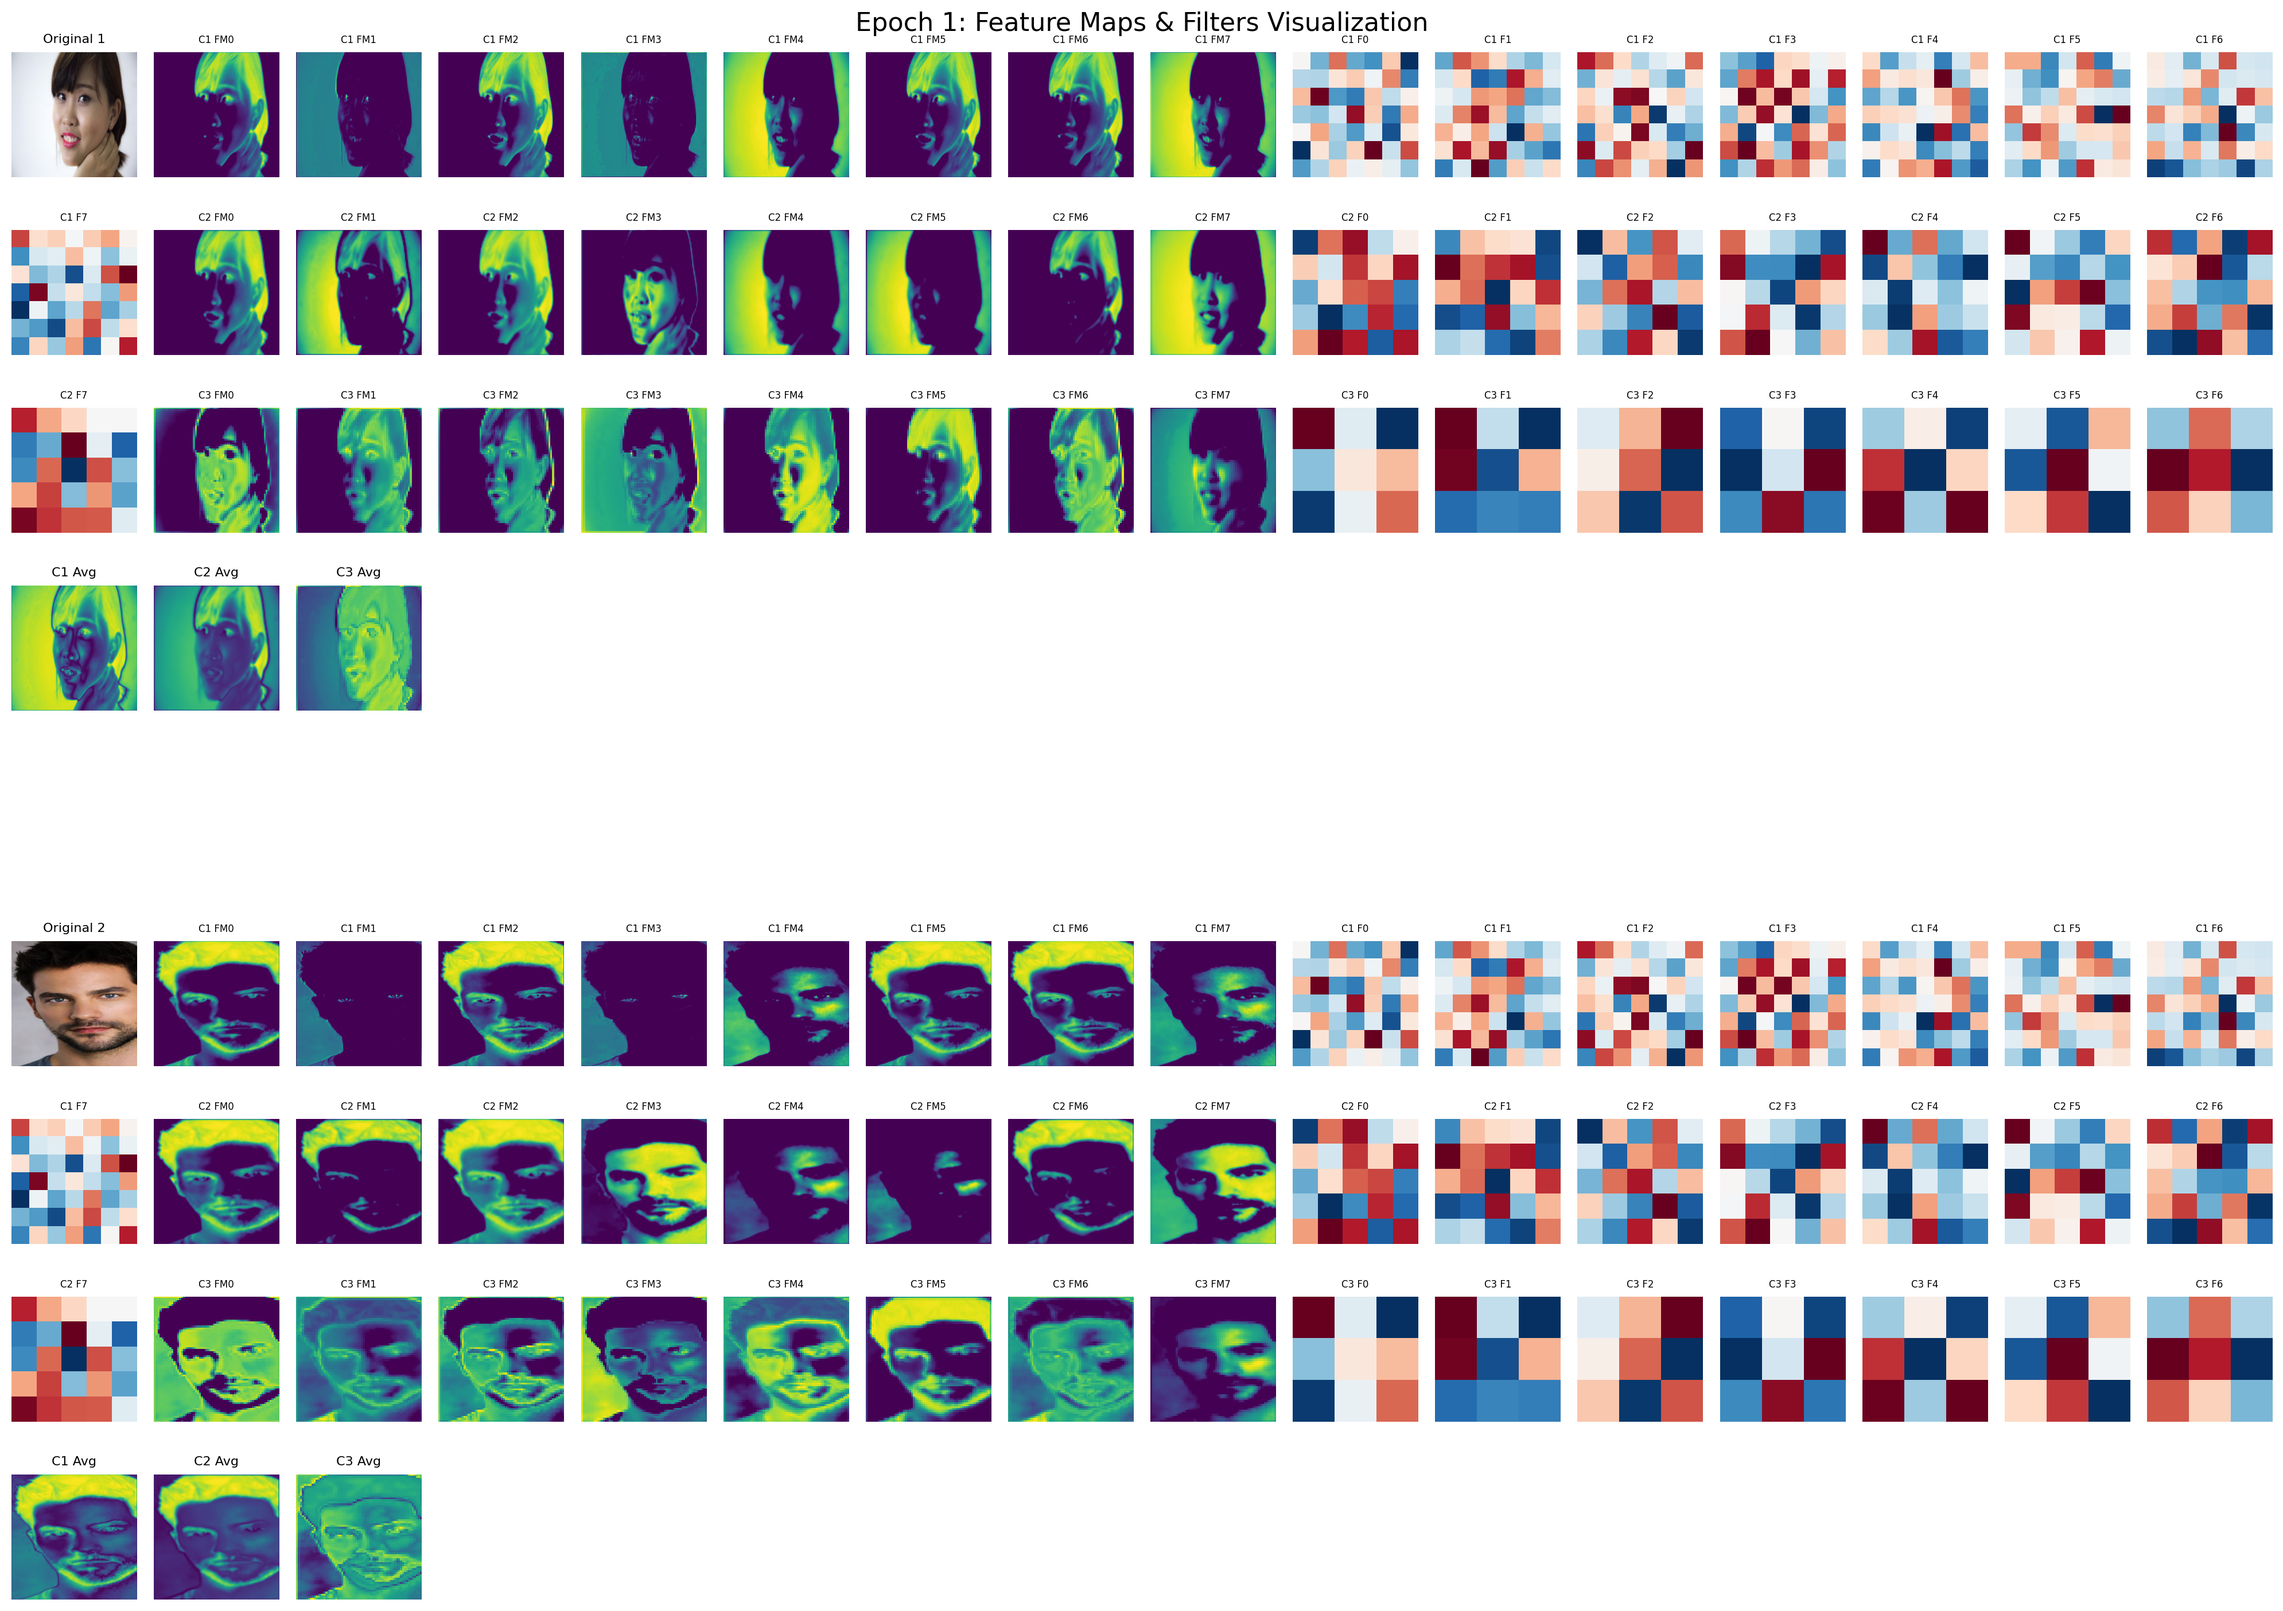
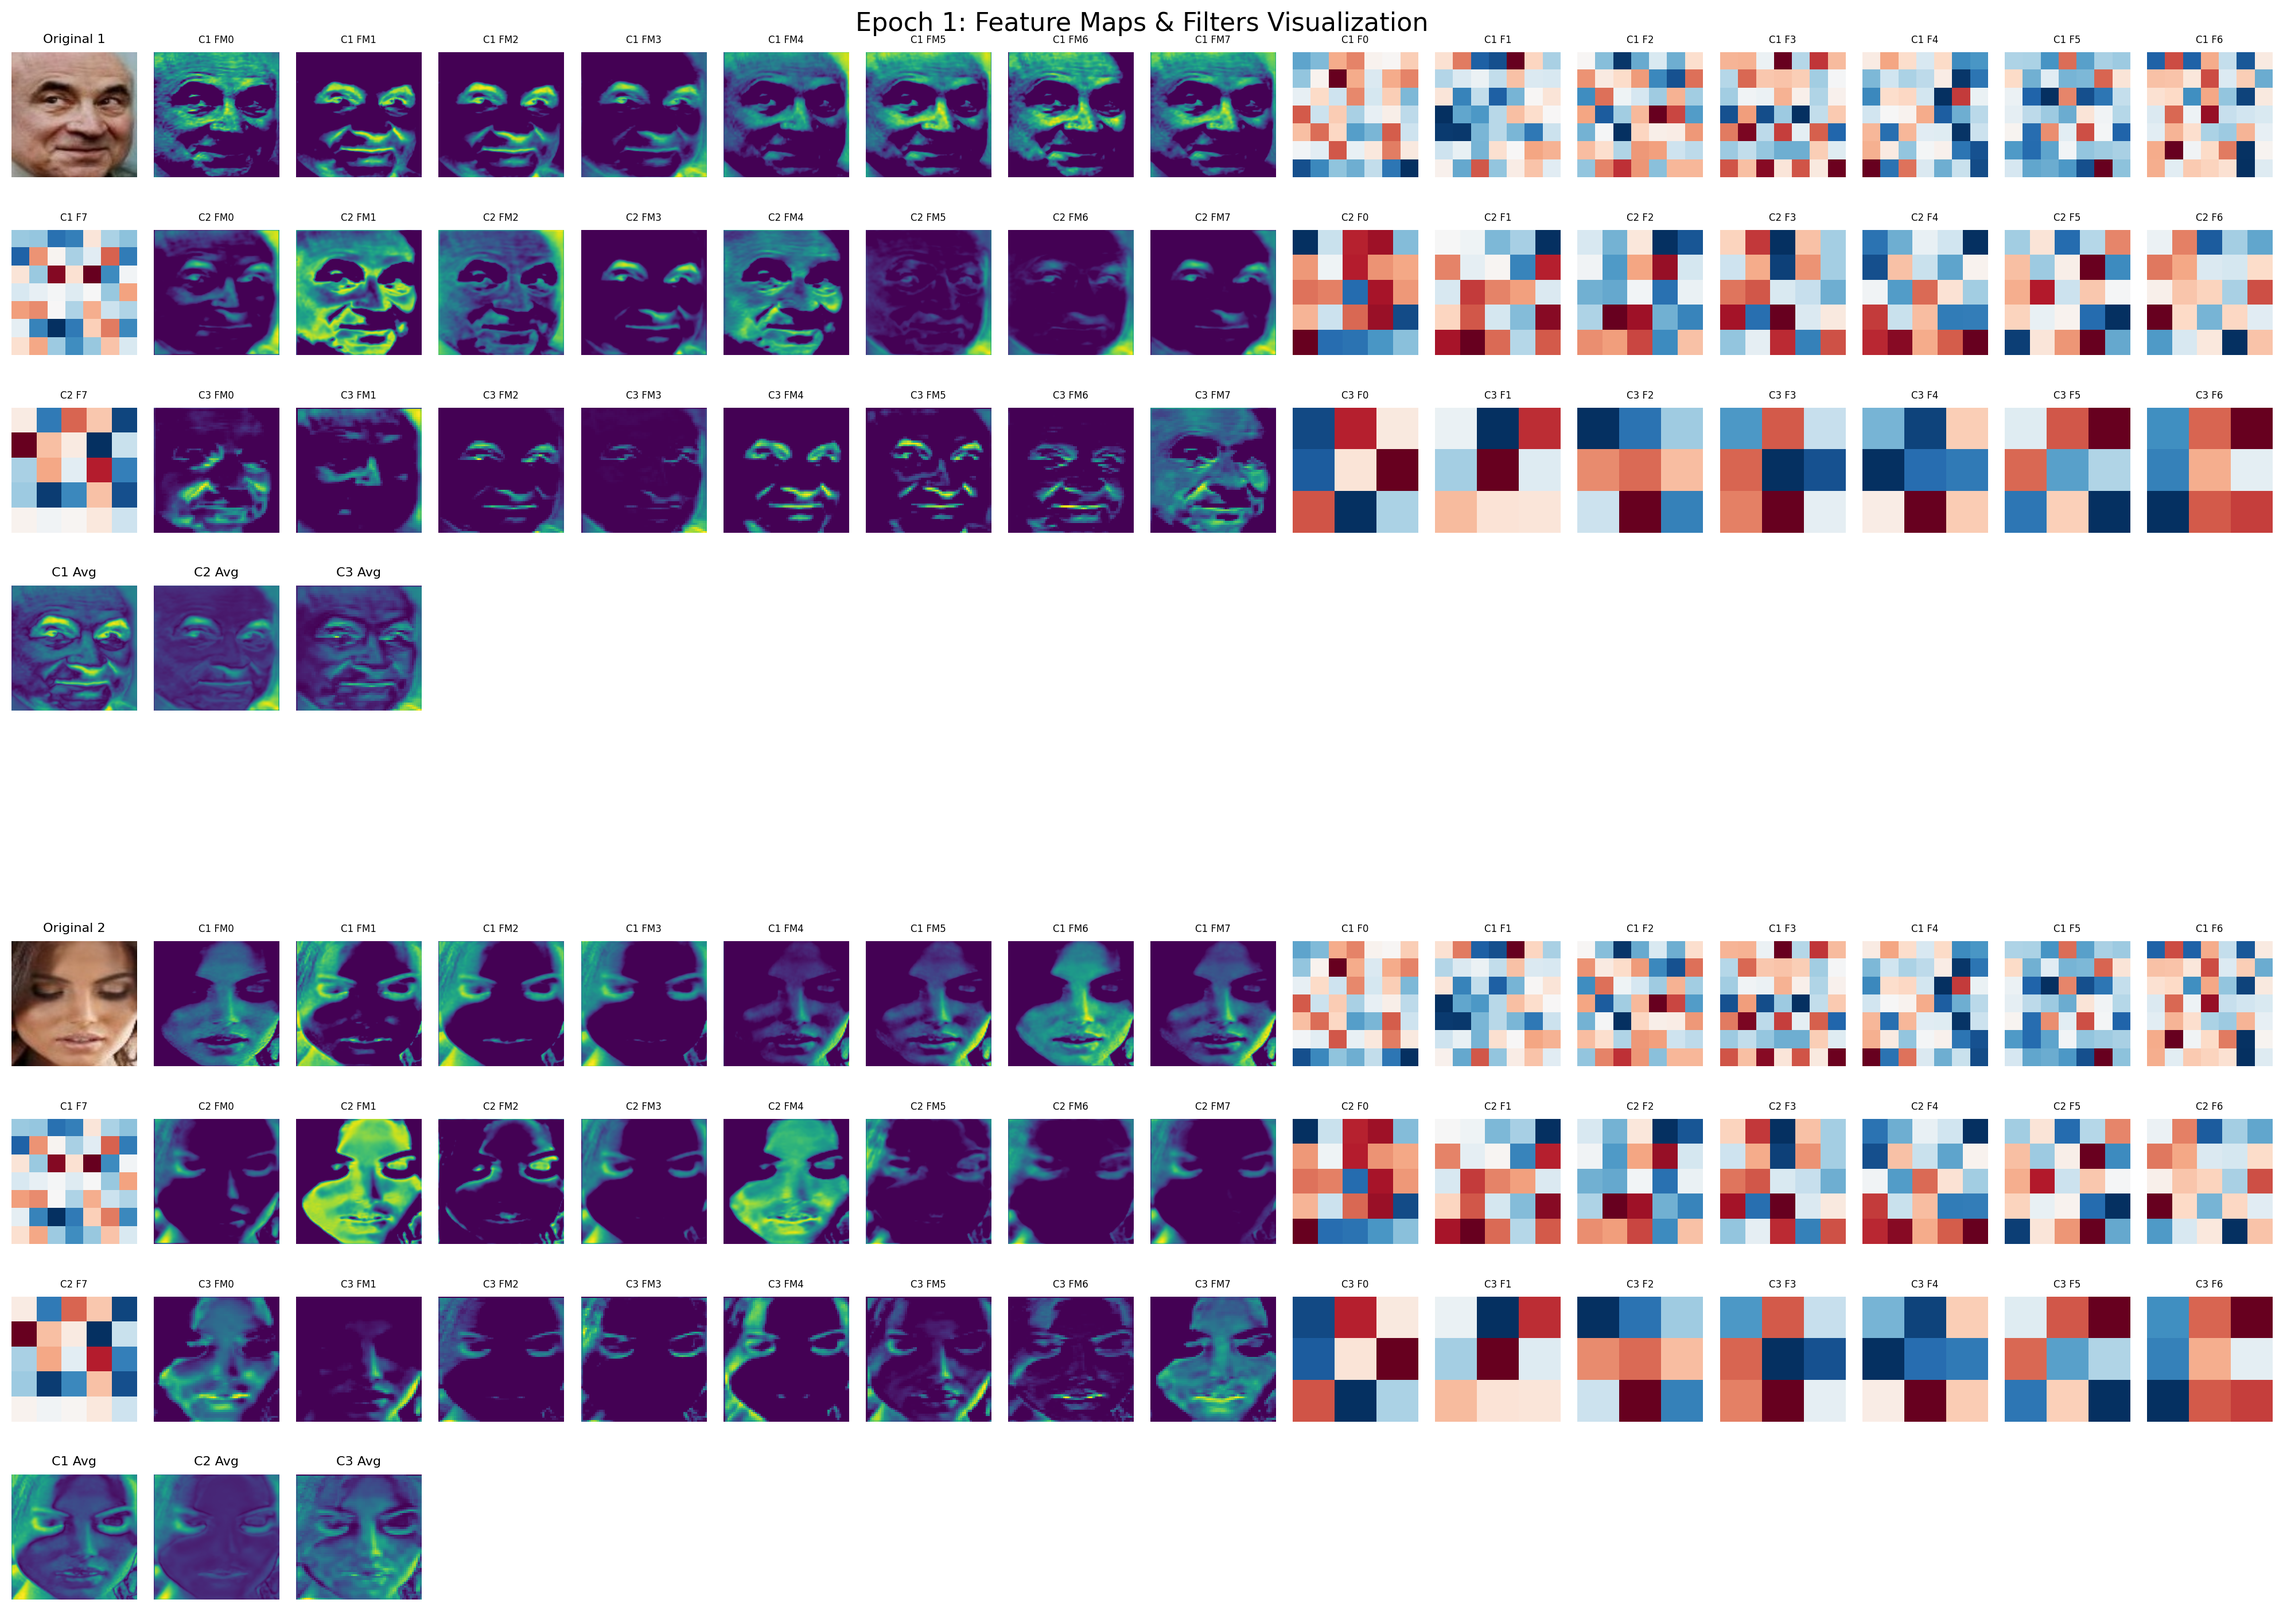
Major Change
Changing the training data to a larger amd more close up face iamge, improving the results.

diff --git a/main_visualize.py b/main_visualize.py
@@ -17,15 +17,15 @@ transforms = transforms.Compose([
     transforms.Normalize((0.5, 0.5, 0.5), (0.5, 0.5, 0.5))
 ])
 
-dataset = datasets.ImageFolder(
-    root='datasets/ashwingupta3012/male-and-female-faces-dataset/versions/1/Male and Female face dataset',
+train_dataset = datasets.ImageFolder(
+    root='datasets/cashutosh/gender-classification-dataset/versions/1/Training',
     transform=transforms
 )
 
-train_size = int(0.8 * len(dataset))
-val_size = len(dataset) - train_size
-
-train_dataset, val_dataset = random_split(dataset, [train_size, val_size])
+val_dataset = datasets.ImageFolder(
+    root='datasets/cashutosh/gender-classification-dataset/versions/1/Validation',
+    transform=transforms
+)
 
 train_loader = DataLoader(train_dataset, batch_size=32, shuffle=True)
 val_loader = DataLoader(val_dataset, batch_size=32, shuffle=False)
@@ -254,3 +254,5 @@ trainer = pl.Trainer(
     devices='auto'
 )
 trainer.fit(model, train_loader, val_loader)
+
+torch.save(model.state_dict(), 'model.pth')

diff --git a/main.py b/main.py
@@ -17,15 +17,15 @@ transforms = transforms.Compose([
     transforms.Normalize((0.5, 0.5, 0.5), (0.5, 0.5, 0.5))
 ])
 
-dataset = datasets.ImageFolder(
-    root='datasets/ashwingupta3012/male-and-female-faces-dataset/versions/1/Male and Female face dataset',
+train_dataset = datasets.ImageFolder(
+    root='datasets/cashutosh/gender-classification-dataset/versions/1/Training',
     transform=transforms
 )
 
-train_size = int(0.8 * len(dataset))
-val_size = len(dataset) - train_size
-
-train_dataset, val_dataset = random_split(dataset, [train_size, val_size])
+val_dataset = datasets.ImageFolder(
+    root='datasets/cashutosh/gender-classification-dataset/versions/1/Validation',
+    transform=transforms
+)
 
 train_loader = DataLoader(train_dataset, batch_size=32, shuffle=True)
 val_loader = DataLoader(val_dataset, batch_size=32, shuffle=False)

diff --git a/download.py b/download.py
@@ -5,6 +5,6 @@ import os
 os.environ["KAGGLEHUB_CACHE"] = "./"
 
 # Download dataset
-path = kagglehub.dataset_download("ashwingupta3012/male-and-female-faces-dataset")
+path = kagglehub.dataset_download("cashutosh/gender-classification-dataset")
 
 print("Path to dataset files:", path)
